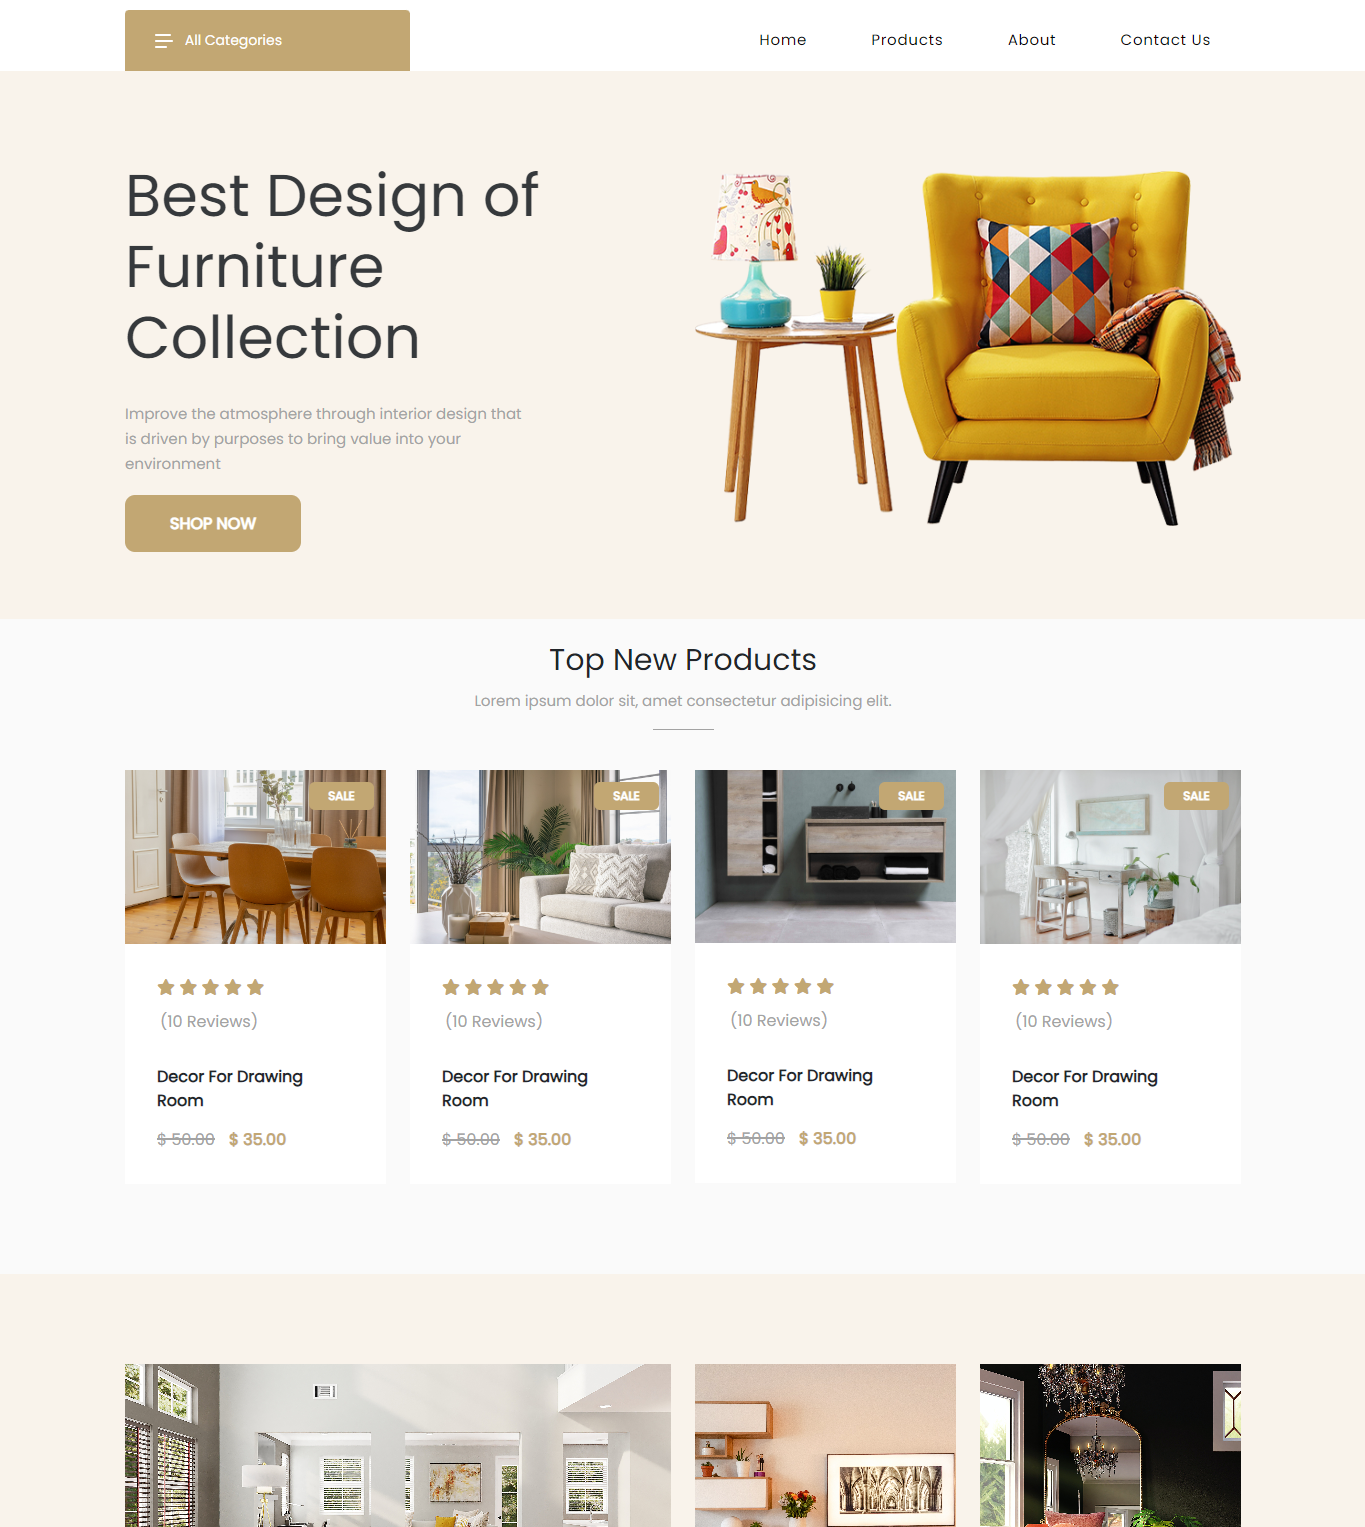
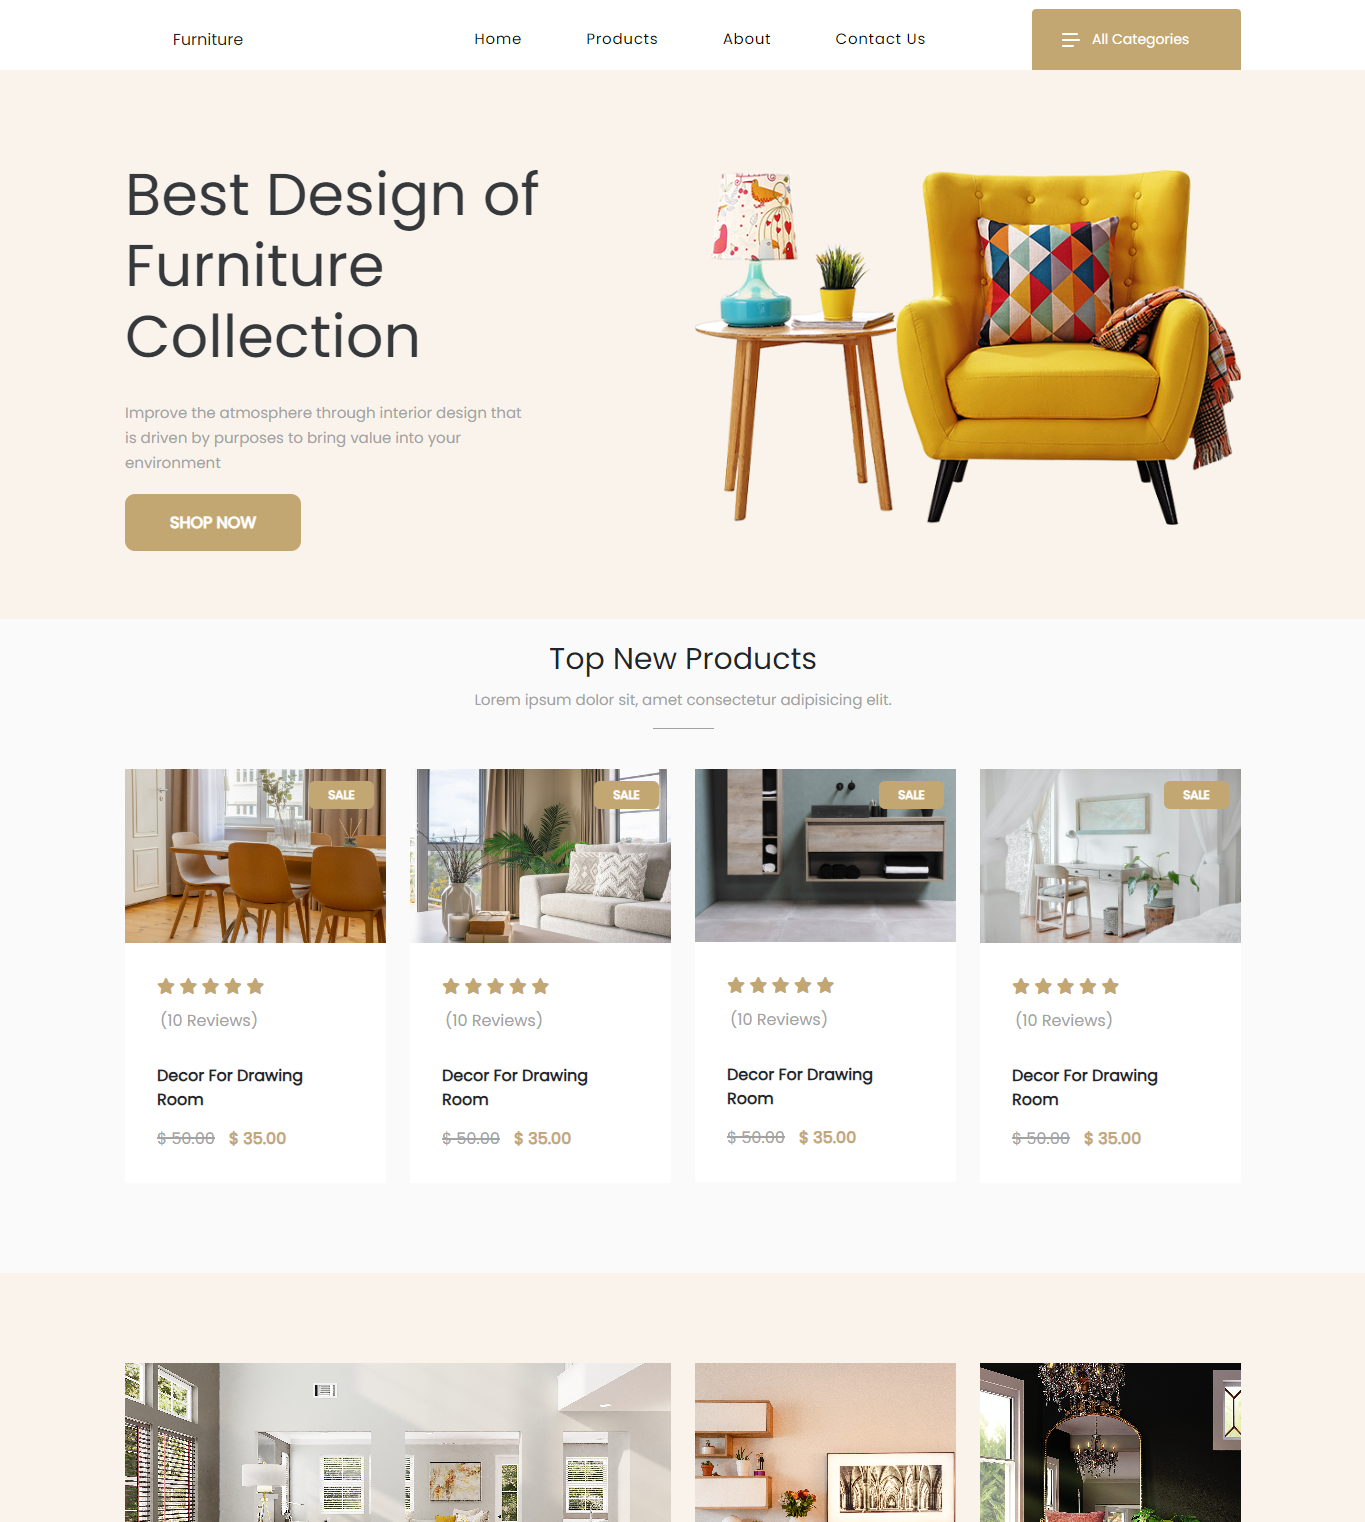
18-10-23

diff --git a/index2.html b/index2.html
@@ -54,66 +54,9 @@
       <div id="header-sticky" class="tp-header__area tp-header-5-space">
         <div class="container">
           <div class="row align-items-center">
-            <div class="col-xl-4 col-lg-5 col-md-6 col-6">
-              <div
-                class="tp-header-category tp-category-menu tp-header-category-toggle d-none d-xl-block"
-              >
-                <button
-                  class="tp-category-menu-btn tp-category-menu-toggle"
-                  aria-label="categories"
-                >
-                  <span>
-                    <svg
-                      width="18"
-                      height="14"
-                      viewBox="0 0 18 14"
-                      fill="none"
-                      xmlns="http://www.w3.org/2000/svg"
-                    >
-                      <path
-                        fill-rule="evenodd"
-                        clip-rule="evenodd"
-                        d="M0 1C0 0.447715 0.447715 0 1 0H15C15.5523 0 16 0.447715 16 1C16 1.55228 15.5523 2 15 2H1C0.447715 2 0 1.55228 0 1ZM0 7C0 6.44772 0.447715 6 1 6H17C17.5523 6 18 6.44772 18 7C18 7.55228 17.5523 8 17 8H1C0.447715 8 0 7.55228 0 7ZM1 12C0.447715 12 0 12.4477 0 13C0 13.5523 0.447715 14 1 14H11C11.5523 14 12 13.5523 12 13C12 12.4477 11.5523 12 11 12H1Z"
-                        fill="currentColor"
-                      />
-                    </svg>
-                  </span>
-                  All Categories
-                </button>
-                <nav class="tp-category-menu-content">
-                  <ul>
-                    <li>
-                      <a href="#"> Small furniture </a>
-                    </li>
-                    <li>
-                      <a href="#"> nightstands </a>
-                    </li>
-                    <li>
-                      <a href="#"> dressers </a>
-                    </li>
-                    <li>
-                      <a href="#"> Bookcase </a>
-                    </li>
-                    <li>
-                      <a href="#"> tables </a>
-                    </li>
-                    <li>
-                      <a href="#"> sofas </a>
-                    </li>
-                    <li>
-                      <a href="#"> chairs </a>
-                    </li>
-                  </ul>
-                </nav>
-              </div>
-              <div class="tp-header-4__logo d-xl-none">
-                <!-- <a href="index.html"> -->
-                  <!-- <img src="" alt=""> -->
-                  Furniture
-                <!-- </a> -->
-              </div>
-            </div>
-            <div class="col-xl-8 col-lg-7 d-none d-xl-block text-end">
+            
+            <div class="col-xl-2 col-lg-2 text-center">Furniture</div>
+            <div class="col-xl-7 col-lg-7 d-none d-xl-block text-end">
               <div class="tp-header-4__main-menu menu-space">
                 <nav class="tp-main-menu-content">
                   <ul>
@@ -171,6 +114,65 @@
                     </li>
                   </ul>
                 </nav>
+              </div>
+            </div>
+            <div class="col-xl-3 col-lg-5 col-md-6 col-6 d-flex justify-content-end align-items-end">
+              <div
+                class="tp-header-category tp-category-menu tp-header-category-toggle d-none d-xl-block"
+              >
+                <button
+                  class="tp-category-menu-btn tp-category-menu-toggle"
+                  aria-label="categories"
+                >
+                  <span>
+                    <svg
+                      width="18"
+                      height="14"
+                      viewBox="0 0 18 14"
+                      fill="none"
+                      xmlns="http://www.w3.org/2000/svg"
+                    >
+                      <path
+                        fill-rule="evenodd"
+                        clip-rule="evenodd"
+                        d="M0 1C0 0.447715 0.447715 0 1 0H15C15.5523 0 16 0.447715 16 1C16 1.55228 15.5523 2 15 2H1C0.447715 2 0 1.55228 0 1ZM0 7C0 6.44772 0.447715 6 1 6H17C17.5523 6 18 6.44772 18 7C18 7.55228 17.5523 8 17 8H1C0.447715 8 0 7.55228 0 7ZM1 12C0.447715 12 0 12.4477 0 13C0 13.5523 0.447715 14 1 14H11C11.5523 14 12 13.5523 12 13C12 12.4477 11.5523 12 11 12H1Z"
+                        fill="currentColor"
+                      />
+                    </svg>
+                  </span>
+                  All Categories
+                </button>
+                <nav class="tp-category-menu-content">
+                  <ul>
+                    <li>
+                      <a href="#"> Small furniture </a>
+                    </li>
+                    <li>
+                      <a href="#"> nightstands </a>
+                    </li>
+                    <li>
+                      <a href="#"> dressers </a>
+                    </li>
+                    <li>
+                      <a href="#"> Bookcase </a>
+                    </li>
+                    <li>
+                      <a href="#"> tables </a>
+                    </li>
+                    <li>
+                      <a href="#"> sofas </a>
+                    </li>
+                    <li>
+                      <a href="#"> chairs </a>
+                    </li>
+                  </ul>
+                </nav>
+              </div>
+              <div class="tp-header-4__logo d-xl-none">
+                <!-- <a href="index.html"> -->
+                  <!-- <img src="" alt=""> -->
+                  Furniture
+                <!-- </a> -->
               </div>
             </div>
             <div class="col-xl-4 col-lg-7 col-md-6 col-6">

diff --git a/assets/css/style.css b/assets/css/style.css
@@ -2894,7 +2894,7 @@ only screen and (min-width: 768px) and (max-width: 991px) {
 }
 
 .newsletter-content {
-    padding: 80px 0;
+    padding-top: 30px;
 }
 
 .newsletter-content .form-control {

diff --git a/assets/scss/layout/_home2.scss b/assets/scss/layout/_home2.scss
@@ -224,7 +224,7 @@
 
 // 6th part css
 .newsletter-content {
-    padding: 80px 0;
+    padding-top: 30px;
 
     .form-control {
         border: none;
